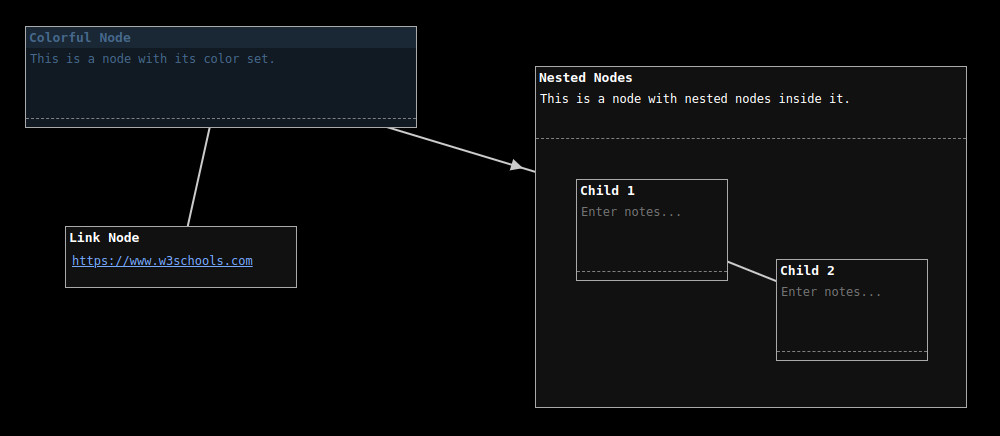
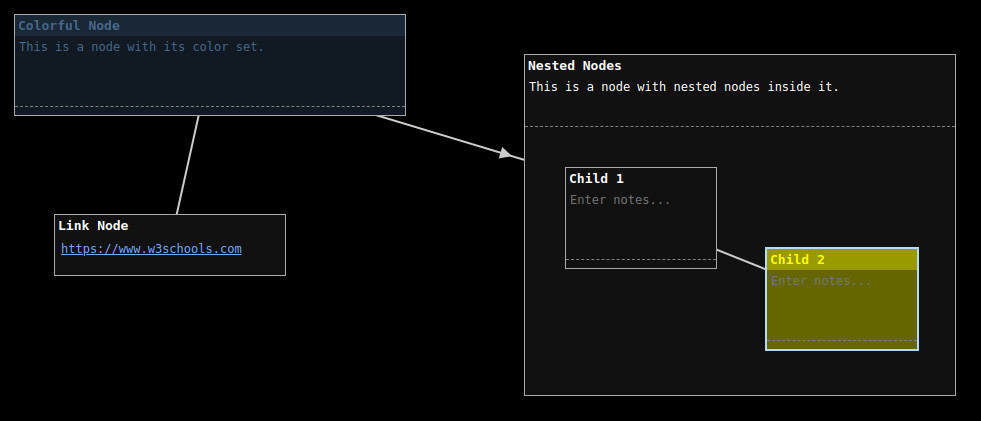
Updated the ReadMe Images.

diff --git a/README.md b/README.md
@@ -1,7 +1,9 @@
 # vummel
 A Keyboard-Driven UML Diagram Application with VIM-Like Key Bindings -- As a Stand-Alone HTML File
 
-![Vummel](https://worldweaver.infinityfreeapp.com/vummel.jpg)
+![Vummel](https://vummel.infinityfreeapp.com/example_01.jpg)
+
+![Vummel](https://vummel.infinityfreeapp.com/example_04.jpg)
 
 ## New to Vummel
 When you first pull up the **vummel.html** file, hit the **?** key.\
